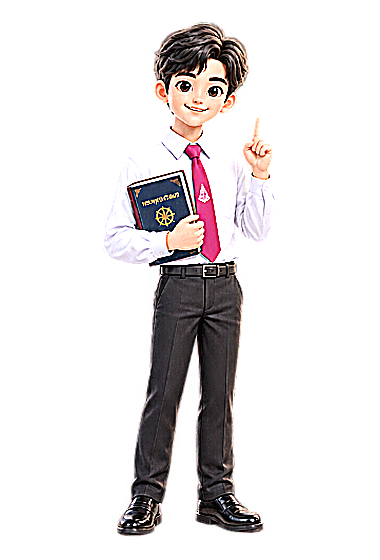
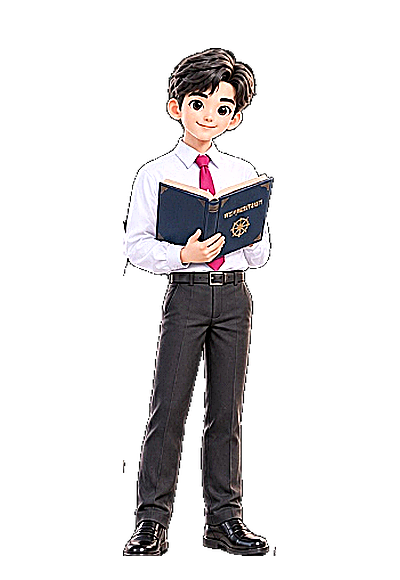
feat: switch to new 3D student mascot model from media_1789111095491 with transparent background and seamless full-body cycle

Changed region(s): [[0.2605, 0.0304, 0.7237, 0.9714], [0.2895, 0.7893, 0.3184, 0.8196]]

diff --git a/src/app/portal/_components/assist-hero.tsx b/src/app/portal/_components/assist-hero.tsx
@@ -15,37 +15,34 @@ interface AssistHeroProps {
   locale: string;
 }
 
-// 8 poses from the new high-quality sprite sheet (2 rows × 4 cols)
+// Poses from the new 3D student mascot model
 const MASCOT_POSES = [
   { id: 1, titleTh: "ยินดีต้อนรับสู่ระบบ", titleEn: "Welcome to Academic Hub" },
   { id: 2, titleTh: "พร้อมเรียนรู้ 👍", titleEn: "Ready to Learn 👍" },
   { id: 3, titleTh: "สู้ๆ นะครับ ✌", titleEn: "Keep it up ✌" },
-  { id: 4, titleTh: "แนะนำบริการดิจิทัล 👆", titleEn: "Discover Services 👆" },
-  { id: 5, titleTh: "คิดหนักแต่มีคำตอบ 🤔", titleEn: "Smart Thinking 🤔" },
-  { id: 6, titleTh: "สำเร็จไปด้วยกัน 💪", titleEn: "Success Together 💪" },
-  { id: 7, titleTh: "ก้าวไปข้างหน้า 🚶", titleEn: "Moving Forward 🚶" },
-  { id: 8, titleTh: "สวัสดีครับ ยินดีให้บริการ 🙏", titleEn: "Sawasdee - Greeting 🙏" },
+  { id: 4, titleTh: "ค้นคว้าความรู้ 📖", titleEn: "Explore Knowledge 📖" },
+  { id: 5, titleTh: "แนะนำบริการดิจิทัล 👉", titleEn: "Discover Services 👉" },
 ];
 
 export function AssistHero({ orgName, locale }: AssistHeroProps) {
   const isTh = locale === "th";
   const [currentPoseIdx, setCurrentPoseIdx] = useState(0);
 
-  // Preload all 8 pose images on mount for instant zero-flicker transitions
+  // Preload pose images on mount for instant zero-flicker transitions
   useEffect(() => {
     if (typeof window !== "undefined") {
       MASCOT_POSES.forEach((p) => {
         const img = new Image();
-        img.src = `/images/mascot/pose-${p.id}.png?v=4`;
+        img.src = `/images/mascot/pose-${p.id}.png?v=5`;
       });
     }
   }, []);
 
-  // Continuous automatic animation cycle through all 8 poses sequentially
+  // Continuous automatic animation cycle through poses sequentially
   useEffect(() => {
     const timer = setInterval(() => {
       setCurrentPoseIdx((prev) => (prev + 1) % MASCOT_POSES.length);
-    }, 2200);
+    }, 2400);
     return () => clearInterval(timer);
   }, []);
 
@@ -221,7 +218,7 @@ export function AssistHero({ orgName, locale }: AssistHeroProps) {
                   // eslint-disable-next-line @next/next/no-img-element
                   <img
                     key={pose.id}
-                    src={`/images/mascot/pose-${pose.id}.png?v=4`}
+                    src={`/images/mascot/pose-${pose.id}.png?v=5`}
                     alt={isTh ? pose.titleTh : pose.titleEn}
                     className={`absolute inset-0 m-auto max-h-[440px] w-auto object-contain transition-all duration-500 ease-out pointer-events-none ${
                       isCurrent
